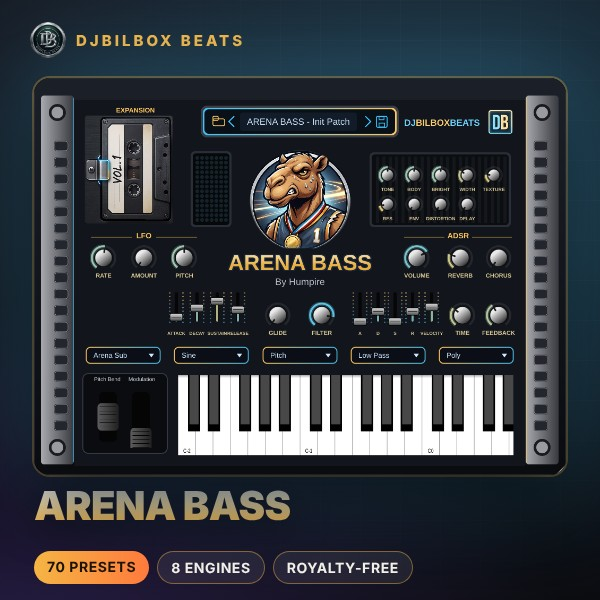
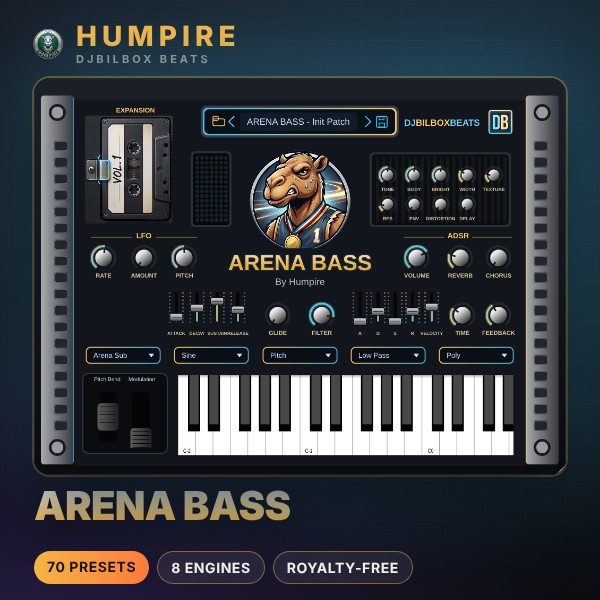
Visuels promo : marque HUMPIRE en grand, DJBILBOX BEATS en petit [skip ci]
Claude-Session: https://claude.ai/code/session_01AyFy7CAoq6FA8MmMovPrRT

Changed region(s): [[0.03, 0.03, 0.42, 0.12]]

diff --git a/MARKETING/templates/product.html b/MARKETING/templates/product.html
@@ -11,6 +11,8 @@
       linear-gradient(160deg,#15151c 0%,#0b0b0f 60%); }
   .grid { position:absolute; inset:0; background-image:linear-gradient(rgba(255,255,255,.035) 1px,transparent 1px),linear-gradient(90deg,rgba(255,255,255,.035) 1px,transparent 1px); background-size:40px 40px; mask-image:radial-gradient(circle at 70% 40%,#000 0,transparent 75%); }
   .brand { position:absolute; display:flex; align-items:center; gap:calc(var(--u)*10); font-weight:800; letter-spacing:calc(var(--u)*3); color:var(--amber); font-size:calc(var(--u)*17); }
+  .brand .bn { display:flex; flex-direction:column; line-height:1.05; font-size:calc(var(--u)*28); letter-spacing:calc(var(--u)*5); }
+  .brand .bn small { font-size:calc(var(--u)*11); letter-spacing:calc(var(--u)*3); color:var(--dim); font-weight:700; margin-top:calc(var(--u)*3); }
   .brand img { height:calc(var(--u)*46); width:auto; border-radius:50%; }
   .shot { position:absolute; border-radius:calc(var(--u)*16); overflow:hidden; box-shadow:0 calc(var(--u)*30) calc(var(--u)*70) rgba(0,0,0,.65), 0 0 0 calc(var(--u)*2) rgba(245,181,68,.35), 0 0 calc(var(--u)*90) color-mix(in srgb, var(--accent) 35%, transparent); background:#000; }
   .shot img { display:block; width:100%; height:auto; object-fit:contain; }
@@ -48,7 +50,7 @@
 <body class="{{MODE}}">
 <div class="stage" style="--accent:{{ACCENT}}">
   <div class="grid"></div>
-  <div class="brand">{{LOGO}}<span>{{BRAND}}</span></div>
+  <div class="brand">{{LOGO}}<span class="bn">{{BRAND}}<small>DJBILBOX BEATS</small></span></div>
   <div class="kind">{{KIND}}</div>
   <h1 style="--fs:{{FS}}">{{NAME}}</h1>
   <div class="tag">{{TAGLINE}}</div>

diff --git a/MARKETING/tools/build_kits.py b/MARKETING/tools/build_kits.py
@@ -55,8 +55,8 @@ def main():
         shot = os.path.join(ROOT, 'screens', f['id'] + '.png')
         if not os.path.exists(shot):
             print('! no screenshot for', f['id'], '(skipped images)'); shot = None
-        brand = 'HUMPIRE' if f['group'] in ('loadout', 'orbit') else 'DJBILBOX BEATS'
-        logo = os.path.join(ROOT, 'assets', 'humpire-logo.png' if brand == 'HUMPIRE' else 'djbilbox-emblem.png')
+        brand = 'HUMPIRE'
+        logo = os.path.join(ROOT, 'assets', 'humpire-logo.png')
         if shot:
             manifest.append({"id": f['id'], "name": f['name'], "kind": f.get('kind', ''), "tagline": f['tagline'], "screenshot": shot, "logo": logo,
                              "brand": brand, "accent": f.get('accent', '#f5b544'), "badges": f.get('badges', []),
